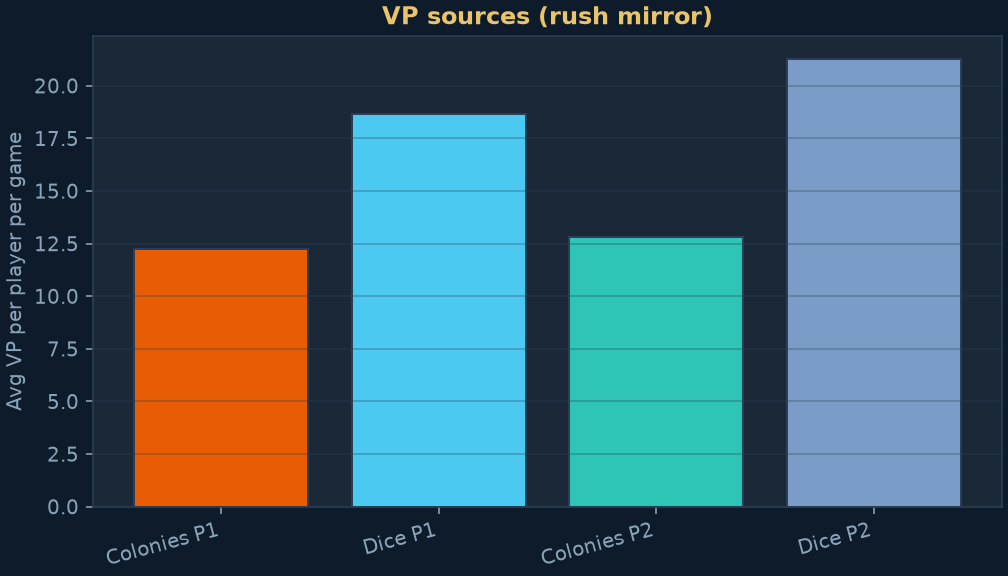
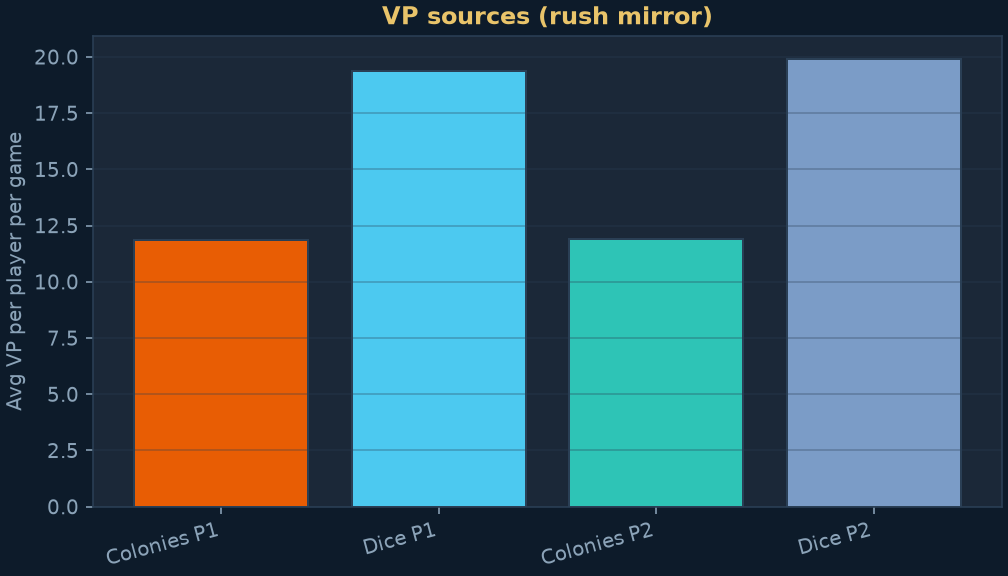
Fix +1 gold: award to second in turn order, not Player 2 seat
Earlier builds always gave +1 to seat index 1, which stacked with random
first roller and inflated Player 2 mirror win rates. Now matches rulebook:
higher opening sector rolls first; the other player gets +1 gold.

Docs, summary.json metadata, plots, and setup test updated.

diff --git a/src/spacebase2p/cli.py b/src/spacebase2p/cli.py
@@ -12,7 +12,7 @@ def cmd_simulate(args: argparse.Namespace) -> None:
     g = summary.games
     print(f"Games: {g}")
     print(f"Player 1 (--p0, {args.p0}) wins: {summary.p0_wins} ({100 * summary.p0_wins / g:.1f}%)")
-    print(f"Player 2 (--p1, {args.p1}, +1g setup) wins: {summary.p1_wins} ({100 * summary.p1_wins / g:.1f}%)")
+    print(f"Player 2 (--p1, {args.p1}) wins: {summary.p1_wins} ({100 * summary.p1_wins / g:.1f}%)")
     print(f"Draws: {summary.draws} ({100 * summary.draws / g:.1f}%)")
     print(f"Avg overspend Player 1: {summary.avg_overspend_p0:.2f}")
     print(f"Avg overspend Player 2: {summary.avg_overspend_p1:.2f}")
@@ -50,7 +50,7 @@ def main(argv: list[str] | None = None) -> None:
     sim = sub.add_parser("simulate", help="run N games")
     sim.add_argument("-n", "--games", type=int, default=100)
     sim.add_argument("--p0", default="income", help="Player 1 bot (income|rush|chain|snowball|random)")
-    sim.add_argument("--p1", default="rush", help="Player 2 bot (+1 gold at setup)")
+    sim.add_argument("--p1", default="rush", help="Player 2 bot (seat; +1g if this seat rolls second)")
     sim.add_argument("--seed", type=int, default=None)
     sim.set_defaults(func=cmd_simulate)
 

diff --git a/tests/test_second_player_gold.py b/tests/test_second_player_gold.py
@@ -1,0 +1,31 @@
+import random
+
+from spacebase2p.bots import make_bot_pair
+from spacebase2p.game import Game
+
+
+def _opening_cost(player) -> int:
+    for sector in range(1, 13):
+        st = player.sector(sector)
+        if st.stationed is not None:
+            return st.stationed.cost
+    raise AssertionError("no opening ship")
+
+
+def test_second_player_gets_plus_one_gold():
+    rng = random.Random(0)
+    saw_p0_second = saw_p1_second = False
+    for seed in range(300):
+        bots = make_bot_pair(["rush", "rush"], rng)
+        g = Game.new(bots, seed=seed)
+        starter = g.active
+        second = 1 - starter
+        p0, p1 = g.players
+        c0, c1 = _opening_cost(p0), _opening_cost(p1)
+        assert p0.gold == 5 - c0 + (1 if second == 0 else 0)
+        assert p1.gold == 5 - c1 + (1 if second == 1 else 0)
+        if second == 0:
+            saw_p0_second = True
+        else:
+            saw_p1_second = True
+    assert saw_p0_second and saw_p1_second

diff --git a/scripts/generate_simulation_plots.py b/scripts/generate_simulation_plots.py
@@ -177,8 +177,9 @@ def write_summary_json(results) -> None:
         "seed": SEED,
         "seats": {
             "player_1": {"cli": "--p0", "index": 0},
-            "player_2": {"cli": "--p1", "index": 1, "setup_bonus_gold": 1},
-            "note": "Win rates are for player_1 (index 0). First roller is higher opening sector, not player_2.",
+            "player_2": {"cli": "--p1", "index": 1},
+            "second_player_bonus_gold": 1,
+            "note": "Win rates are for player_1 (index 0). +1 gold goes to whoever does not roll first (higher opening sector rolls first; tie player_1).",
         },
         "matchups": [
             {

diff --git a/src/spacebase2p/game.py b/src/spacebase2p/game.py
@@ -76,12 +76,15 @@ class Game:
         _station_card(p1, c1)
         p0.gold -= c0.cost
         p1.gold -= c1.cost
-        p1.gold += 1  # second player bonus
 
         if c0.sector >= c1.sector:
             active = 0
         else:
             active = 1
+
+        # Second player in turn order (does not roll first) gets +1 gold (base 2p rules).
+        players = [p0, p1]
+        players[1 - active].gold += 1
 
         game = cls(
             rng=rng,

diff --git a/docs/simulation.md b/docs/simulation.md
@@ -16,11 +16,11 @@ Stats use **Player 1** and **Player 2** (table-game numbering), not “who rolle
 | Label | CLI flag | In the engine |
 | ----- | -------- | ------------- |
 | **Player 1** | `--p0` | Seat index 0 |
-| **Player 2** | `--p1` | Seat index 1, always gets **+1 gold** after the opening buy |
+| **Player 2** | `--p1` | Seat index 1 |
 
-**Who rolls first** on round 1 is separate: whoever drew the **higher-sector** level-1 opening card (tie → Player 1). Player 2 can roll first and still be the seat that got +1 gold.
+**Who rolls first:** whoever drew the **higher-sector** level-1 opening card (tie → Player 1). **+1 gold** goes to whoever **does not** roll first (second player in turn order), matching the rulebook — not a fixed seat.
 
-**Mirror bots** (same bot vs itself) are **not** 50/50 on win rate: Player 2’s setup bonus wins about **55–57%** in long runs (`rush` and `snowball` mirrors). A batch can show something like **38%** for Player 1 in `snowball` vs `snowball` — that is Player 1’s win share in 400 games, not a broken bot. Draws count in the denominator and pull both win rates down slightly.
+**Mirror bots** should sit near **50%** Player 1 win rate when the model is fair; small swings remain from opening luck and draws (draws count in the denominator).
 
 Charts label the **left bar / first column** as Player 1 and the **right** as Player 2 for each matchup row.
 
@@ -31,7 +31,7 @@ Charts label the **left bar / first column** as Player 1 and the **right** as Pl
 <div class="sb-plot-grid">
   <figure>
     <img src="{{ '/assets/plots/win_rates.png' | relative_url }}" alt="Bar chart of Player 1 win rate by bot matchup" />
-    <figcaption>Player 1 win rate by matchup (dashed = 50%; mirrors favor Player 2 — see seats above).</figcaption>
+    <figcaption>Player 1 win rate by matchup (dashed = 50%; see seats above).</figcaption>
   </figure>
   <figure>
     <img src="{{ '/assets/plots/overspend.png' | relative_url }}" alt="Grouped bar chart of average overspend per player" />
@@ -59,19 +59,19 @@ See [summary.json]({{ '/assets/plots/summary.json' | relative_url }}) for machin
 
 | Bot (P1) | Bot (P2) | P1 win % | Draws | Turns | OS P1 | OS P2 |
 | -------- | -------- | -------- | ----- | ----- | ----- | ----- |
-| income | rush | 23.8 | 2 | 24.1 | 50.1 | 6.3 |
-| rush | income | 74.0 | 0 | 24.2 | 5.9 | 54.2 |
-| income | income | 45.3 | 1 | 27.1 | 36.7 | 49.4 |
-| rush | rush | 45.0 | 1 | 24.0 | 9.9 | 8.8 |
-| income | random | 86.5 | 0 | 36.7 | 65.0 | 5.2 |
-| rush | random | 92.8 | 0 | 31.3 | 7.3 | 4.4 |
-| random | random | 48.4 | 0 | 65.9 | 12.0 | 12.6 |
-| chain | rush | 21.3 | 0 | 24.8 | 47.8 | 5.8 |
-| chain | income | 47.8 | 0 | 26.9 | 38.0 | 50.9 |
-| rush | chain | 68.3 | 2 | 25.7 | 5.9 | 58.7 |
-| snowball | rush | 42.3 | 1 | 22.5 | 23.4 | 7.7 |
-| rush | snowball | 34.5 | 4 | 22.2 | 7.1 | 22.6 |
-| snowball | snowball | 38.3 | 4 | 22.4 | 16.4 | 18.7 |
+| income | rush | 28.2 | 1 | 24.4 | 51.9 | 6.2 |
+| rush | income | 77.0 | 2 | 24.3 | 6.3 | 49.7 |
+| income | income | 49.0 | 2 | 26.8 | 41.1 | 44.2 |
+| rush | rush | 50.8 | 3 | 24.0 | 8.9 | 7.9 |
+| income | random | 86.0 | 1 | 36.5 | 69.5 | 4.9 |
+| rush | random | 92.8 | 0 | 31.6 | 7.5 | 4.2 |
+| random | random | 51.6 | 1 | 67.2 | 11.5 | 11.9 |
+| chain | rush | 27.5 | 2 | 24.9 | 49.4 | 5.6 |
+| chain | income | 51.5 | 1 | 27.0 | 42.8 | 43.7 |
+| rush | chain | 71.5 | 2 | 25.1 | 6.0 | 50.9 |
+| snowball | rush | 53.0 | 3 | 23.1 | 22.1 | 7.6 |
+| rush | snowball | 40.0 | 4 | 22.6 | 7.0 | 23.0 |
+| snowball | snowball | 46.2 | 4 | 22.6 | 15.7 | 17.3 |
 
 <small>Table from 400-game batch, seed 42 (committed plots). CI regenerates on push.</small>
 

diff --git a/docs/sim-analysis.md b/docs/sim-analysis.md
@@ -62,7 +62,7 @@ Average **passes per game** in `income` vs `rush` are **~10** (income) vs **~12*
 
 In `rush` vs `rush`, typical Player 1 scoring splits roughly **12 VP colonies / 18 VP dice** (batch averages). That supports the guide’s closing chapter: you are not only colony-rushing; **dice rewards and rockets** still supply a large share of the 40.
 
-Win rates use **Player 1 / Player 2** seats ([setup](simulation.md#player-seats-not-turn-order)): Player 2 always gets **+1 gold**; mirror matchups are not 50/50.
+Win rates use **Player 1 / Player 2** seats ([setup](simulation.md#player-seats-not-turn-order)): **+1 gold** goes to whoever rolls second in round 1, not a fixed seat.
 
 First colony turn in the income vs rush matchup clusters around **turn 17–18** for both seats — colonies start midgame, not turn 1.
 

diff --git a/docs/sim-assumptions.md b/docs/sim-assumptions.md
@@ -11,7 +11,7 @@ The [strategy guides](guide/) describe how **humans** should play Space Base at 
 
 | Topic | Assumption |
 | ----- | ---------- |
-| Mode | **2-player**, base game, normal start (5 gold, random L1, P2 +1) |
+| Mode | **2-player**, base game, normal start (5 gold, random L1, +1g to second in turn order) |
 | Win | **40 VP**, opponent’s last turn |
 | Effects | Gold, income, VP, rockets (VP on red), left/right arrows, colonies |
 | Excluded | Charge cubes, You Win, Gordon, swap, dice-fix, green sum-shifters |

diff --git a/docs/simulator.md b/docs/simulator.md
@@ -9,7 +9,7 @@ Python package in `src/spacebase2p/`: head-to-head **2p**, base game effects onl
 
 ## Setup modeled
 
-- 5 gold, random level 1 (pay cost), **Player 2 +1 gold** (CLI `--p1`; see [seat labels](simulation.md#player-seats-not-turn-order))
+- 5 gold, random level 1 (pay cost), **+1 gold to second player** (who does not roll first; see [seats](simulation.md#player-seats-not-turn-order))
 - Higher opening sector starts
 - Win at **40 VP**, opponent’s **last turn**, higher VP wins (tie = draw)
 
